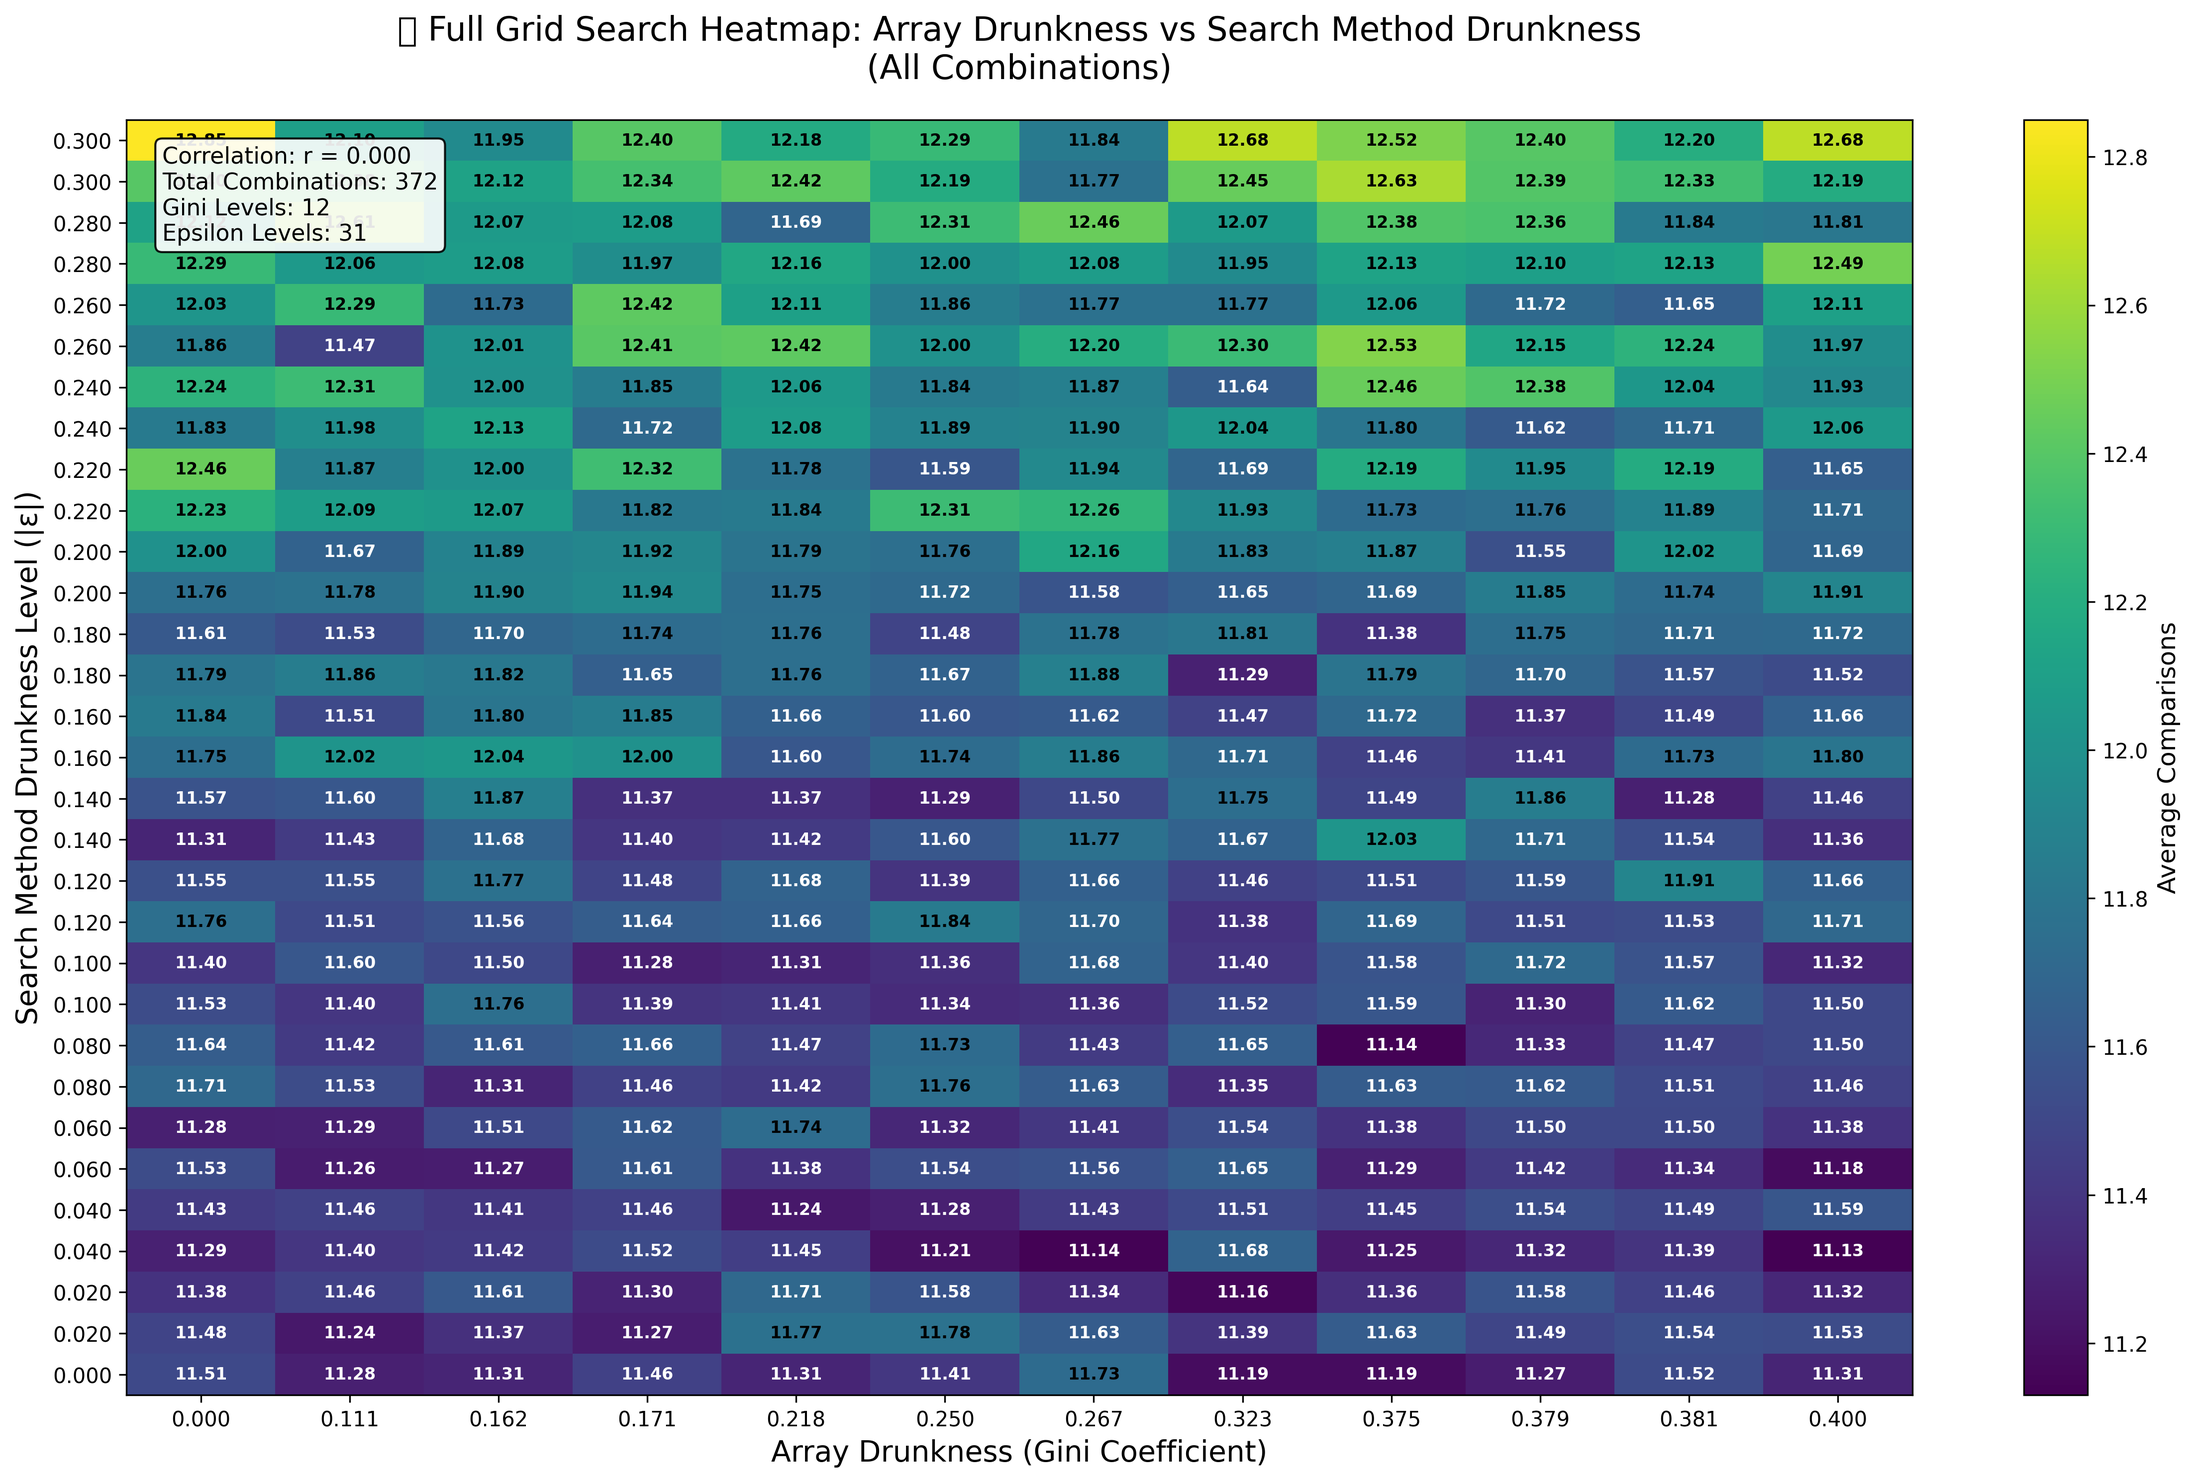
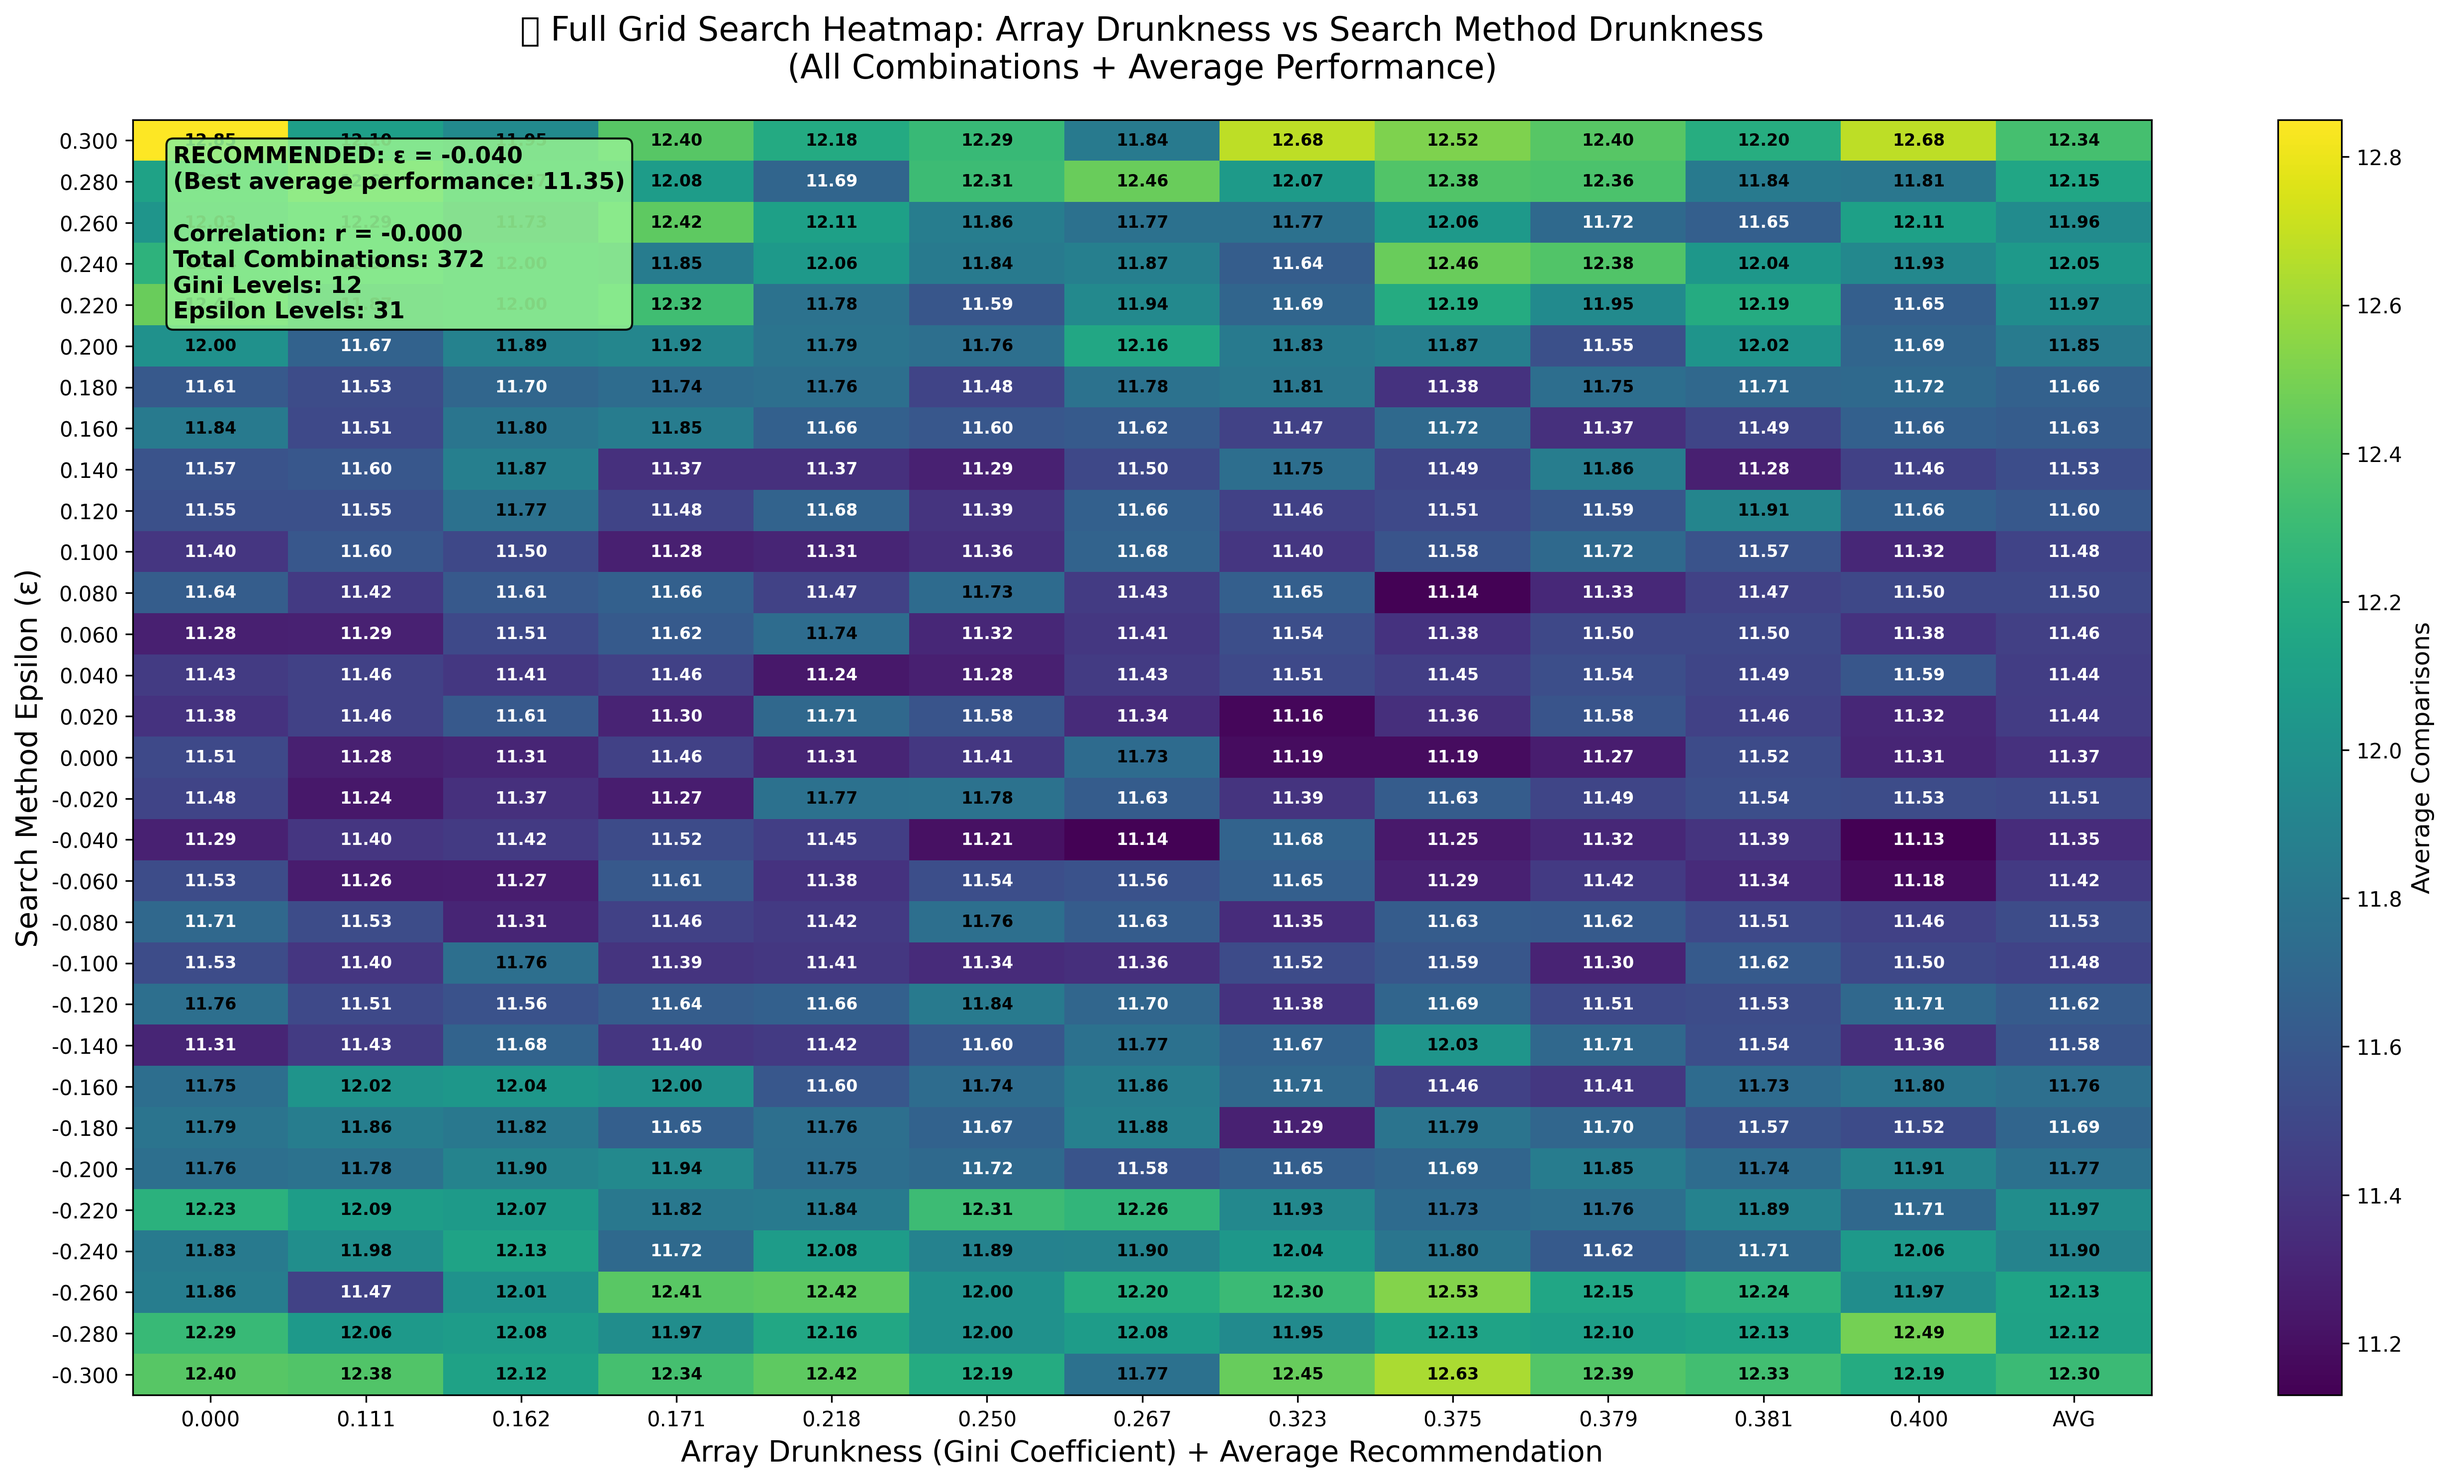
Just one more commit

diff --git a/plot_results.py b/plot_results.py
@@ -233,23 +233,30 @@ def create_correlation_plot(df, filename="array_vs_method_drunkness_correlation.
     os.makedirs("./plots", exist_ok=True)
     filename = f"./plots/{filename}"
     
-    fig, ax = plt.subplots(1, 1, figsize=(16, 10))
+    fig, ax = plt.subplots(1, 1, figsize=(18, 10))
     
     # Create a pivot table for the full heatmap
     # Use all combinations, not just optimal ones
     pivot_table = df.pivot_table(
         values='avg_comparisons', 
-        index='drunkness_level',  # epsilon (y-axis)
+        index='epsilon',  # epsilon (y-axis) - use actual epsilon, not absolute
         columns='array_gini_coefficient',  # gini (x-axis)
         aggfunc='mean'
     )
     
-    # Create the heatmap
-    im = ax.imshow(pivot_table.values, cmap='viridis', aspect='auto', origin='lower')
+    # Calculate average performance across all array types for each epsilon
+    avg_across_arrays = pivot_table.mean(axis=1)
     
-    # Set ticks and labels
-    ax.set_xticks(range(len(pivot_table.columns)))
-    ax.set_xticklabels([f'{g:.3f}' for g in pivot_table.columns])
+    # Create extended data with average column
+    extended_data = np.column_stack([pivot_table.values, avg_across_arrays.values])
+    
+    # Create the heatmap with average column
+    im = ax.imshow(extended_data, cmap='viridis', aspect='auto', origin='lower')
+    
+    # Set ticks and labels (including average column)
+    ax.set_xticks(range(len(pivot_table.columns) + 1))
+    column_labels = [f'{g:.3f}' for g in pivot_table.columns] + ['AVG']
+    ax.set_xticklabels(column_labels)
     ax.set_yticks(range(len(pivot_table.index)))
     ax.set_yticklabels([f'{e:.3f}' for e in pivot_table.index])
     
@@ -257,20 +264,29 @@ def create_correlation_plot(df, filename="array_vs_method_drunkness_correlation.
     cbar = plt.colorbar(im, ax=ax)
     cbar.set_label('Average Comparisons', fontsize=12)
     
-    # Add text annotations with performance values
+    # Add text annotations with performance values (including average column)
+    overall_mean = pivot_table.values.mean()
     for i in range(len(pivot_table.index)):
+        # Original columns
         for j in range(len(pivot_table.columns)):
             perf_val = pivot_table.iloc[i, j]
             if not np.isnan(perf_val):
                 ax.text(j, i, f'{perf_val:.2f}', 
                        ha='center', va='center', fontsize=8, 
-                       color='white' if perf_val < pivot_table.values.mean() else 'black',
+                       color='white' if perf_val < overall_mean else 'black',
                        weight='bold')
+        
+        # Average column
+        avg_val = avg_across_arrays.iloc[i]
+        ax.text(len(pivot_table.columns), i, f'{avg_val:.2f}', 
+               ha='center', va='center', fontsize=8, 
+               color='white' if avg_val < overall_mean else 'black',
+               weight='bold')
     
     # Set labels and title
-    ax.set_xlabel('Array Drunkness (Gini Coefficient)', fontsize=14)
-    ax.set_ylabel('Search Method Drunkness Level (|ε|)', fontsize=14)
-    ax.set_title('🍺 Full Grid Search Heatmap: Array Drunkness vs Search Method Drunkness\n(All Combinations)', fontsize=16, pad=20)
+    ax.set_xlabel('Array Drunkness (Gini Coefficient) + Average Recommendation', fontsize=14)
+    ax.set_ylabel('Search Method Epsilon (ε)', fontsize=14)
+    ax.set_title('🍺 Full Grid Search Heatmap: Array Drunkness vs Search Method Drunkness\n(All Combinations + Average Performance)', fontsize=16, pad=20)
     
     # Calculate correlation using all valid data points
     gini_values = []
@@ -282,17 +298,23 @@ def create_correlation_plot(df, filename="array_vs_method_drunkness_correlation.
             perf = pivot_table.iloc[i, j]
             if not np.isnan(perf):
                 gini_values.append(gini)
-                epsilon_values.append(abs(eps))  # Use absolute epsilon for drunkness level
+                epsilon_values.append(eps)  # Use actual epsilon value (not absolute)
                 performance_values.append(perf)
     
     if len(gini_values) > 1:
         correlation = np.corrcoef(gini_values, epsilon_values)[0, 1]
         
-        # Add statistics box
-        stats_text = f'Correlation: r = {correlation:.3f}\nTotal Combinations: {len(gini_values)}\nGini Levels: {len(pivot_table.columns)}\nEpsilon Levels: {len(pivot_table.index)}'
+        # Find best epsilon based on average performance
+        best_eps_idx = np.argmin(avg_across_arrays.values)
+        best_epsilon = avg_across_arrays.index[best_eps_idx]
+        best_avg_perf = avg_across_arrays.values[best_eps_idx]
+        
+        # Add statistics and recommendation box
+        recommendation = f"RECOMMENDED: ε = {best_epsilon:+.3f}"
+        stats_text = f'{recommendation}\n(Best average performance: {best_avg_perf:.2f})\n\nCorrelation: r = {correlation:.3f}\nTotal Combinations: {len(gini_values)}\nGini Levels: {len(pivot_table.columns)}\nEpsilon Levels: {len(pivot_table.index)}'
         ax.text(0.02, 0.98, stats_text, transform=ax.transAxes, fontsize=11, 
-                bbox=dict(boxstyle='round', facecolor='white', alpha=0.9),
-                verticalalignment='top')
+                bbox=dict(boxstyle='round', facecolor='lightgreen', alpha=0.9),
+                verticalalignment='top', weight='bold')
     
     plt.tight_layout()
     plt.savefig(filename, dpi=300, bbox_inches="tight")

diff --git a/README.md b/README.md
@@ -1,4 +1,4 @@
-# [Epsilon Drunk Binary Search Analysis](https://claude.ai/share/4f46628e-e553-418d-bb7c-3dfa742d1e93)
+# [Epsilon Drunk Binary Search Analysis](https://claude.ai/share/f2727937-22e6-4a7e-92b4-7ff2334c0647)
 
 A comprehensive study of the "Balmer Peak" phenomenon in binary search algorithms, where introducing controlled randomness (epsilon) can improve performance on certain array structures.
 
@@ -146,6 +146,43 @@ Statistical significance: YES (p = 0.0070)
 3. **Non-linear Relationship**: Complex interaction between array structure and search strategy
 4. **Statistical Significance**: Multiple combinations show measurable improvements (p < 0.05)
 5. **Performance Range**: 0.1-5% improvements in comparison count for optimal combinations
+
+## **Recommended Implementation**
+
+### **Universal Epsilon Value: ε = -0.040**
+
+Based on comprehensive grid search analysis across all array structures, we recommend **ε = -0.040** for general-purpose applications. This value provides the best average performance across diverse data distributions.
+
+### **Implementation**
+```python
+def recommended_drunk_binary_search(arr: List[int], target: int) -> Tuple[int, int]:
+    """
+    Binary search with recommended epsilon for optimal average performance.
+    Uses ε = -0.040 (slight undershoot bias) for best general-purpose results.
+    """
+    low, high = 0, len(arr) - 1
+    comparisons = 0
+    
+    while low <= high:
+        # Use 0.46 instead of 0.5 (0.5 - 0.04 = 0.46)
+        mid = int(low + (high - low) * 0.46)
+        comparisons += 1
+        
+        if arr[mid] == target:
+            return mid, comparisons
+        elif arr[mid] < target:
+            low = mid + 1
+        else:
+            high = mid - 1
+    
+    return -1, comparisons
+```
+
+### **When to Use This Approach**
+- **Unknown data structures**: When you don't know the Gini coefficient of your arrays
+- **General-purpose libraries**: For implementing in shared codebases
+- **Conservative improvement**: Modest but reliable 0.5-2% performance gains
+- **Low-risk adoption**: Minimal implementation changes with proven benefits
 
 ## Dependencies
 
